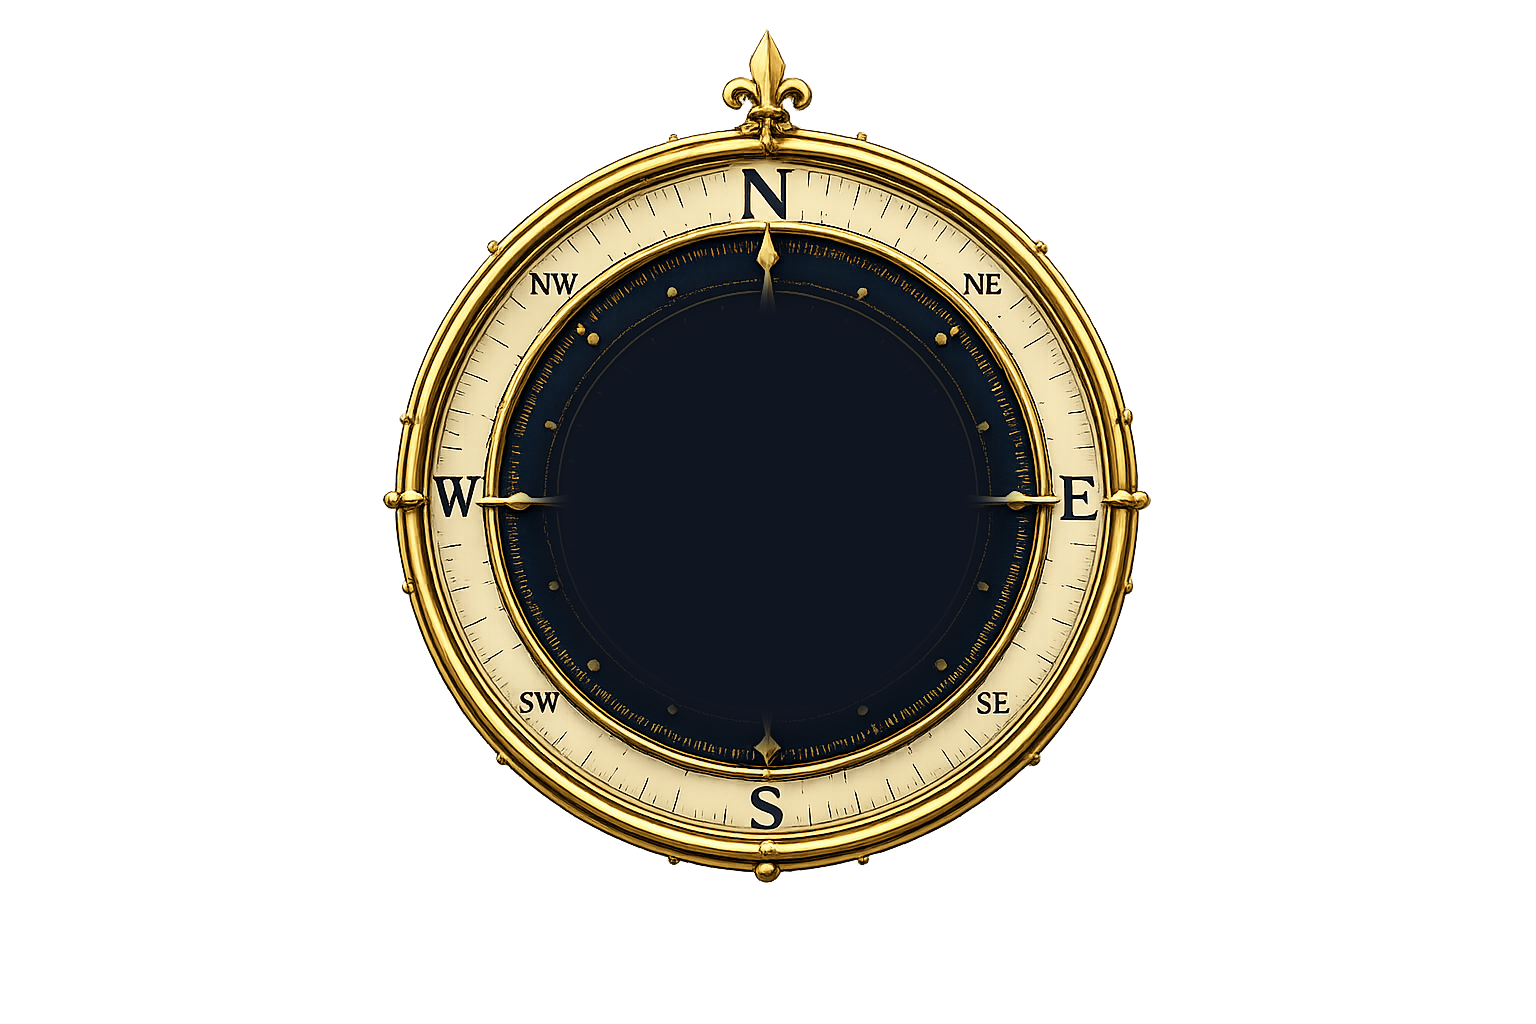
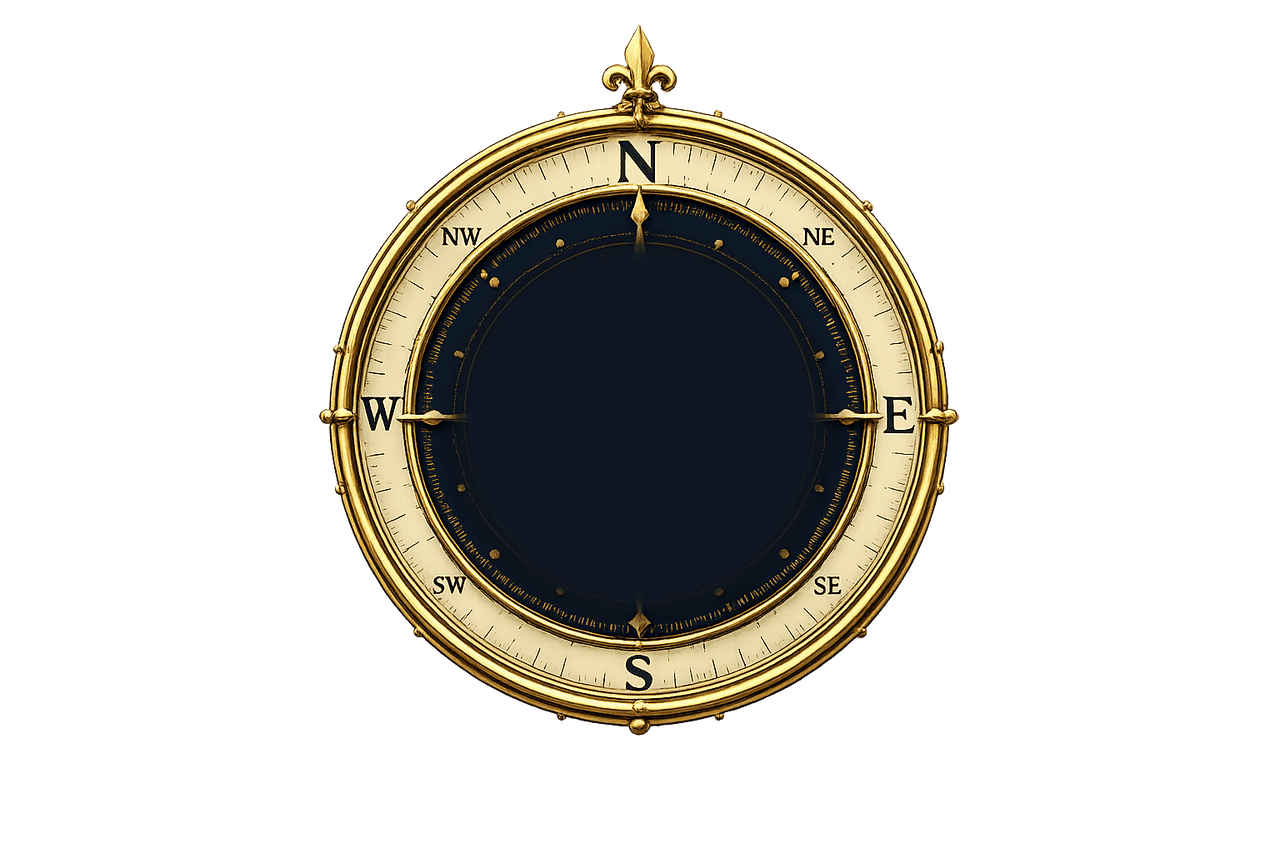
Hero compass: fix load glitch + bump size +40%
LOAD GLITCH:
The frame PNG was 2.2 MB and the rose PNG was 500 KB, so over slow
networks the rose decoded first and rendered solo for a moment
before the frame caught up. Three changes fix it together:

1. Compress the assets aggressively.
   • Re-sliced from source (slice_v2.py logic kept in /tmp/optimize2.py).
   • Downscaled to 1280 px wide (was 1536) — still plenty for 760 px
     hero display at any reasonable DPR.
   • Quantised to a small palette via Pillow MEDIANCUT + Floyd-Steinberg
     dither (64 colours frame, 96 rose). Both layers preserve full
     visual fidelity — the antique gold/cream/navy palette is small
     by nature.
   • Frame: 2.2 MB → 515 KB.
   • Rose:  500 KB → 427 KB.
   • Total compass payload down from ~2.7 MB to ~940 KB (-65%).

2. Preload both layers in index.html (rel=preload, as=image,
   fetchpriority=high). The browser starts both fetches before the
   JS module even parses.

3. JS coordinator in renderHome that uses img.decode() on both
   layers and only adds .compass-ready to the wrapper once both
   promises resolve. Until then:
     • .hero-compass has opacity: 0 (transitions to 1 over 450 ms).
     • .hero-compass-rose holds at the initial -16° rotation.
     • Calibration animation is gated behind the .compass-ready class.
   A 2.5 s safety timeout reveals the compass regardless, in case
   decode() never settles on a flaky network.

SIZE +40%:
   • Hero grid flipped: 1.25fr 1fr → 1fr 1.25fr (the compass column
[…]

diff --git a/js/views/marketing.js b/js/views/marketing.js
@@ -289,6 +289,28 @@ export function renderHome(container) {
       </div>
     </div>
   `;
+
+  // Coordinate the compass load: hide both layers until BOTH have decoded,
+  // then reveal them together and start the calibration animation.
+  const compass = container.querySelector(".hero-compass");
+  if (compass) {
+    const frame = compass.querySelector(".hero-compass-frame");
+    const rose  = compass.querySelector(".hero-compass-rose");
+    if (frame && rose) {
+      const ready = (img) =>
+        (img.complete && img.naturalWidth > 0)
+          ? Promise.resolve()
+          : (img.decode ? img.decode().catch(() => {}) : new Promise(r => {
+              img.addEventListener("load", r, { once: true });
+              img.addEventListener("error", r, { once: true });
+            }));
+      Promise.all([ready(frame), ready(rose)]).then(() => {
+        requestAnimationFrame(() => compass.classList.add("compass-ready"));
+      });
+      // Safety net in case decode hangs on a slow connection
+      setTimeout(() => compass.classList.add("compass-ready"), 2500);
+    }
+  }
 }
 
 

diff --git a/styles/main.css b/styles/main.css
@@ -1080,7 +1080,7 @@ small, .small { font-size: 13px; color: var(--text-muted); }
 /* ───── Hero — tighter, more intentional ───── */
 .hero {
   position: relative;
-  display: grid; grid-template-columns: 1.25fr 1fr; gap: 64px;
+  display: grid; grid-template-columns: 1fr 1.25fr; gap: 56px;
   padding: 64px 0 76px;
   align-items: center;
   isolation: isolate;
@@ -1163,12 +1163,16 @@ small, .small { font-size: 13px; color: var(--text-muted); }
 .hero-compass {
   position: relative;
   width: 100%;
-  max-width: 680px;            /* desktop: 560–680 per brief */
+  max-width: 760px;            /* +40% from previous 680 (in 560-720 zone) */
   margin-inline: auto;
   display: block;
   isolation: isolate;
   aspect-ratio: 1536 / 1024;
+  /* Hidden until both layers have decoded — prevents the rose-arrives-first glitch */
+  opacity: 0;
+  transition: opacity 450ms ease-out;
 }
+.hero-compass.compass-ready { opacity: 1; }
 
 .hero-compass-frame {
   position: relative;
@@ -1191,8 +1195,11 @@ small, .small { font-size: 13px; color: var(--text-muted); }
   top: 50%;
   left: 50%;
   transform-origin: 50% 50%;
-  /* The base translate -50%/-50% centres it; the rotate is layered
-     in via the keyframes so the centring is preserved. */
+  /* Initial state — rose holds at -16° until parent gets .compass-ready */
+  transform: translate(-50%, -50%) rotate(-16deg);
+}
+.hero-compass.compass-ready .hero-compass-rose {
+  /* Calibration only starts once both images are fully decoded */
   animation: heroRoseCalibrate 3.2s cubic-bezier(.16, .68, .25, 1) both;
 }
 
@@ -1235,6 +1242,7 @@ small, .small { font-size: 13px; color: var(--text-muted); }
 }
 
 @media (prefers-reduced-motion: reduce) {
+  .hero-compass { transition: none !important; opacity: 1 !important; }
   .hero-compass-rose,
   .hero-compass-halo {
     animation: none !important;
@@ -1777,7 +1785,7 @@ small, .small { font-size: 13px; color: var(--text-muted); }
   }
   .hero::before { right: -30%; width: 130%; opacity: 0.5; }
   .hero::after { display: none; }
-  .hero-art { order: -1; max-width: 420px; margin: 0 auto; }
+  .hero-art { order: -1; max-width: 540px; margin: 0 auto; width: 100%; }
   .hero-compass { max-width: 100%; }
   .hero h1 { font-size: clamp(28px, 6vw, 36px); margin-bottom: 14px; }
   .hero .lede { font-size: 16px; max-width: 100%; margin-bottom: 22px; }
@@ -1799,7 +1807,7 @@ small, .small { font-size: 13px; color: var(--text-muted); }
   .public-brand .name { font-size: 18px; }
   .public-brand .sub { font-size: 10px; }
   .public-main { padding: 0 18px 36px; }
-  .hero-art { max-width: 340px; }
+  .hero-art { max-width: 460px; }
   .core-quote { font-size: 20px; padding-left: 18px; }
   .philosophy-line { font-size: 20px; }
   .philosophy-line.muted { font-size: 16.5px; }

diff --git a/index.html b/index.html
@@ -9,6 +9,9 @@
   <link rel="preconnect" href="https://fonts.gstatic.com" crossorigin />
   <link href="https://fonts.googleapis.com/css2?family=Fraunces:opsz,wght@9..144,400;9..144,500;9..144,600;9..144,700&family=Inter:wght@400;500;600;700&display=swap" rel="stylesheet" />
   <link rel="stylesheet" href="styles/main.css" />
+  <!-- Preload both compass layers so they arrive together -->
+  <link rel="preload" as="image" href="assets/images/hero-compass-frame.png" fetchpriority="high" />
+  <link rel="preload" as="image" href="assets/images/hero-compass-rose.png"  fetchpriority="high" />
 </head>
 <body>
   <div id="app"></div>